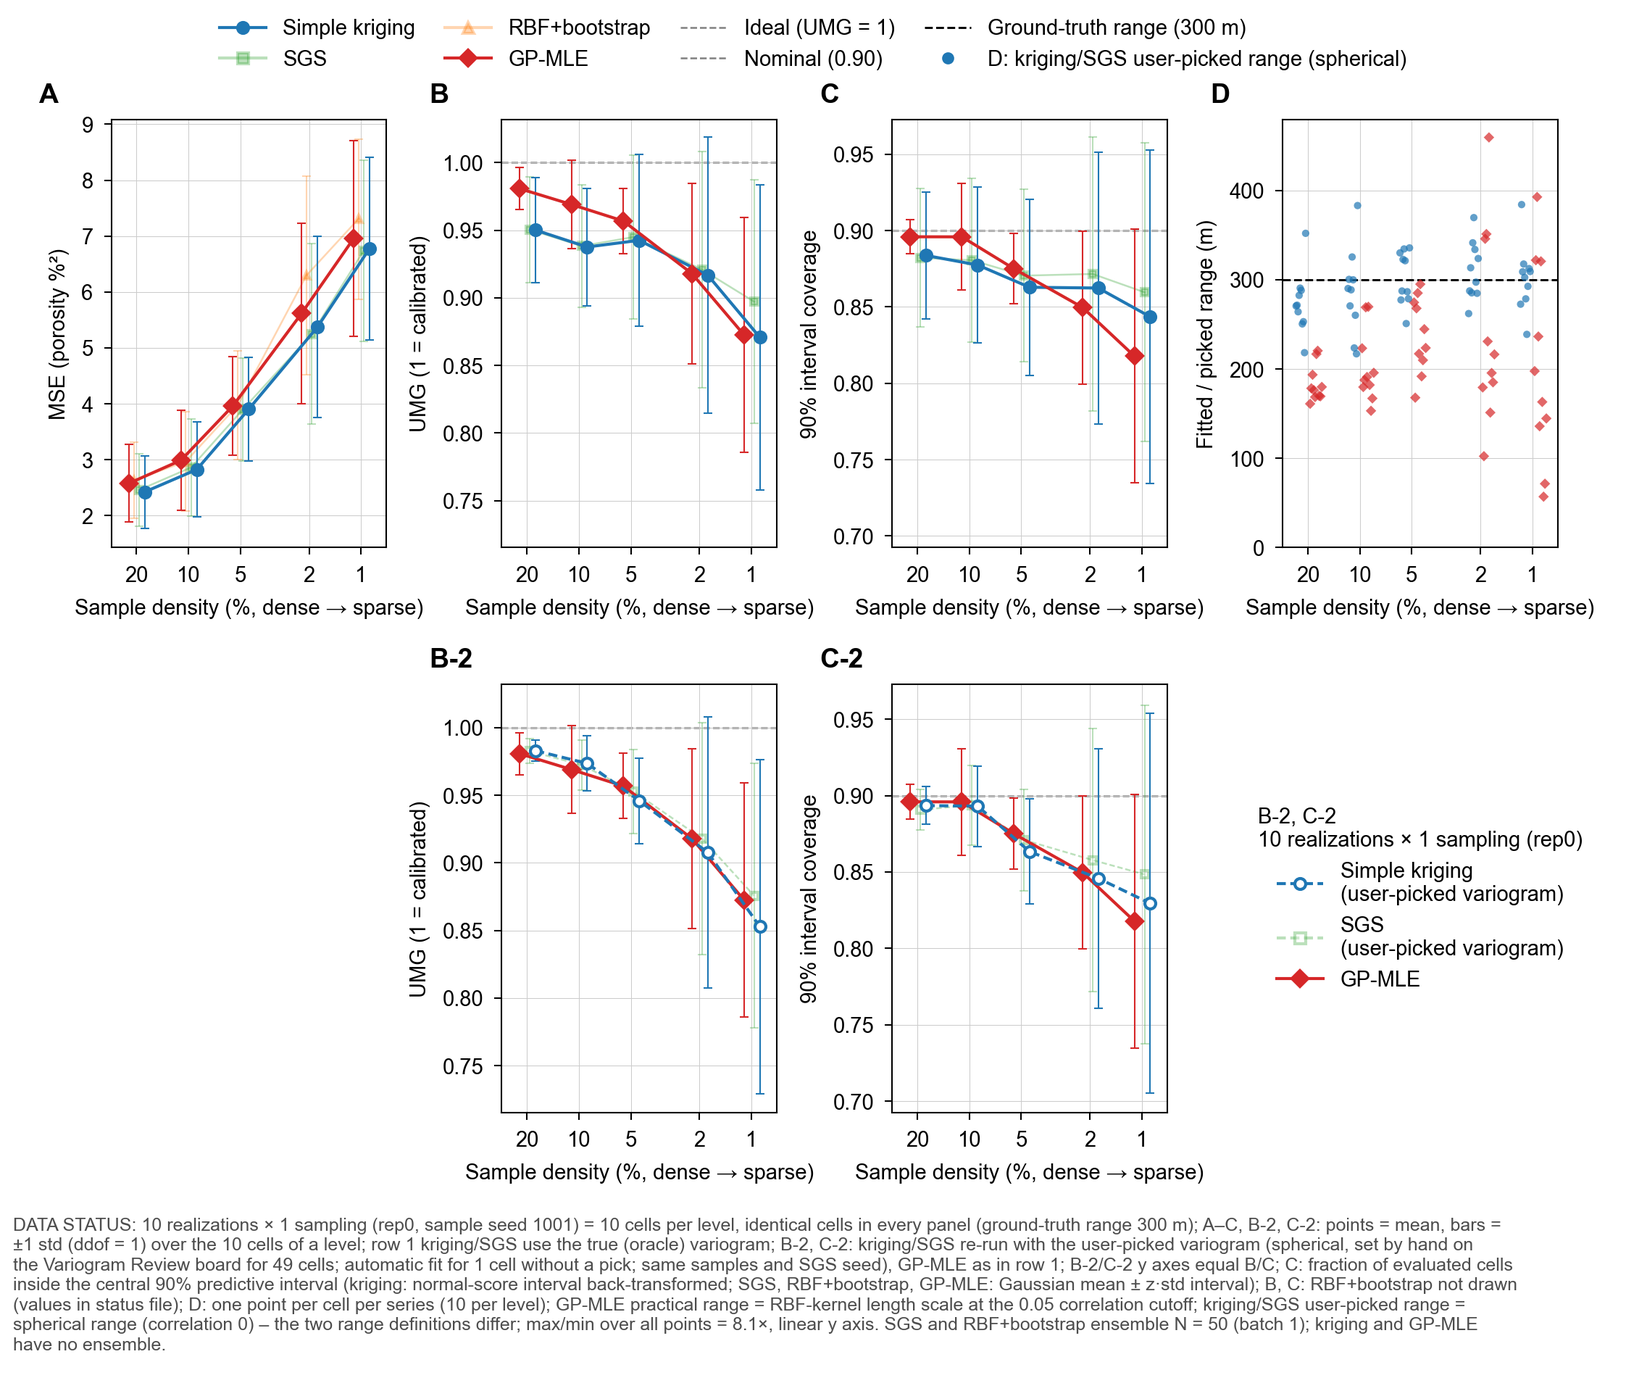
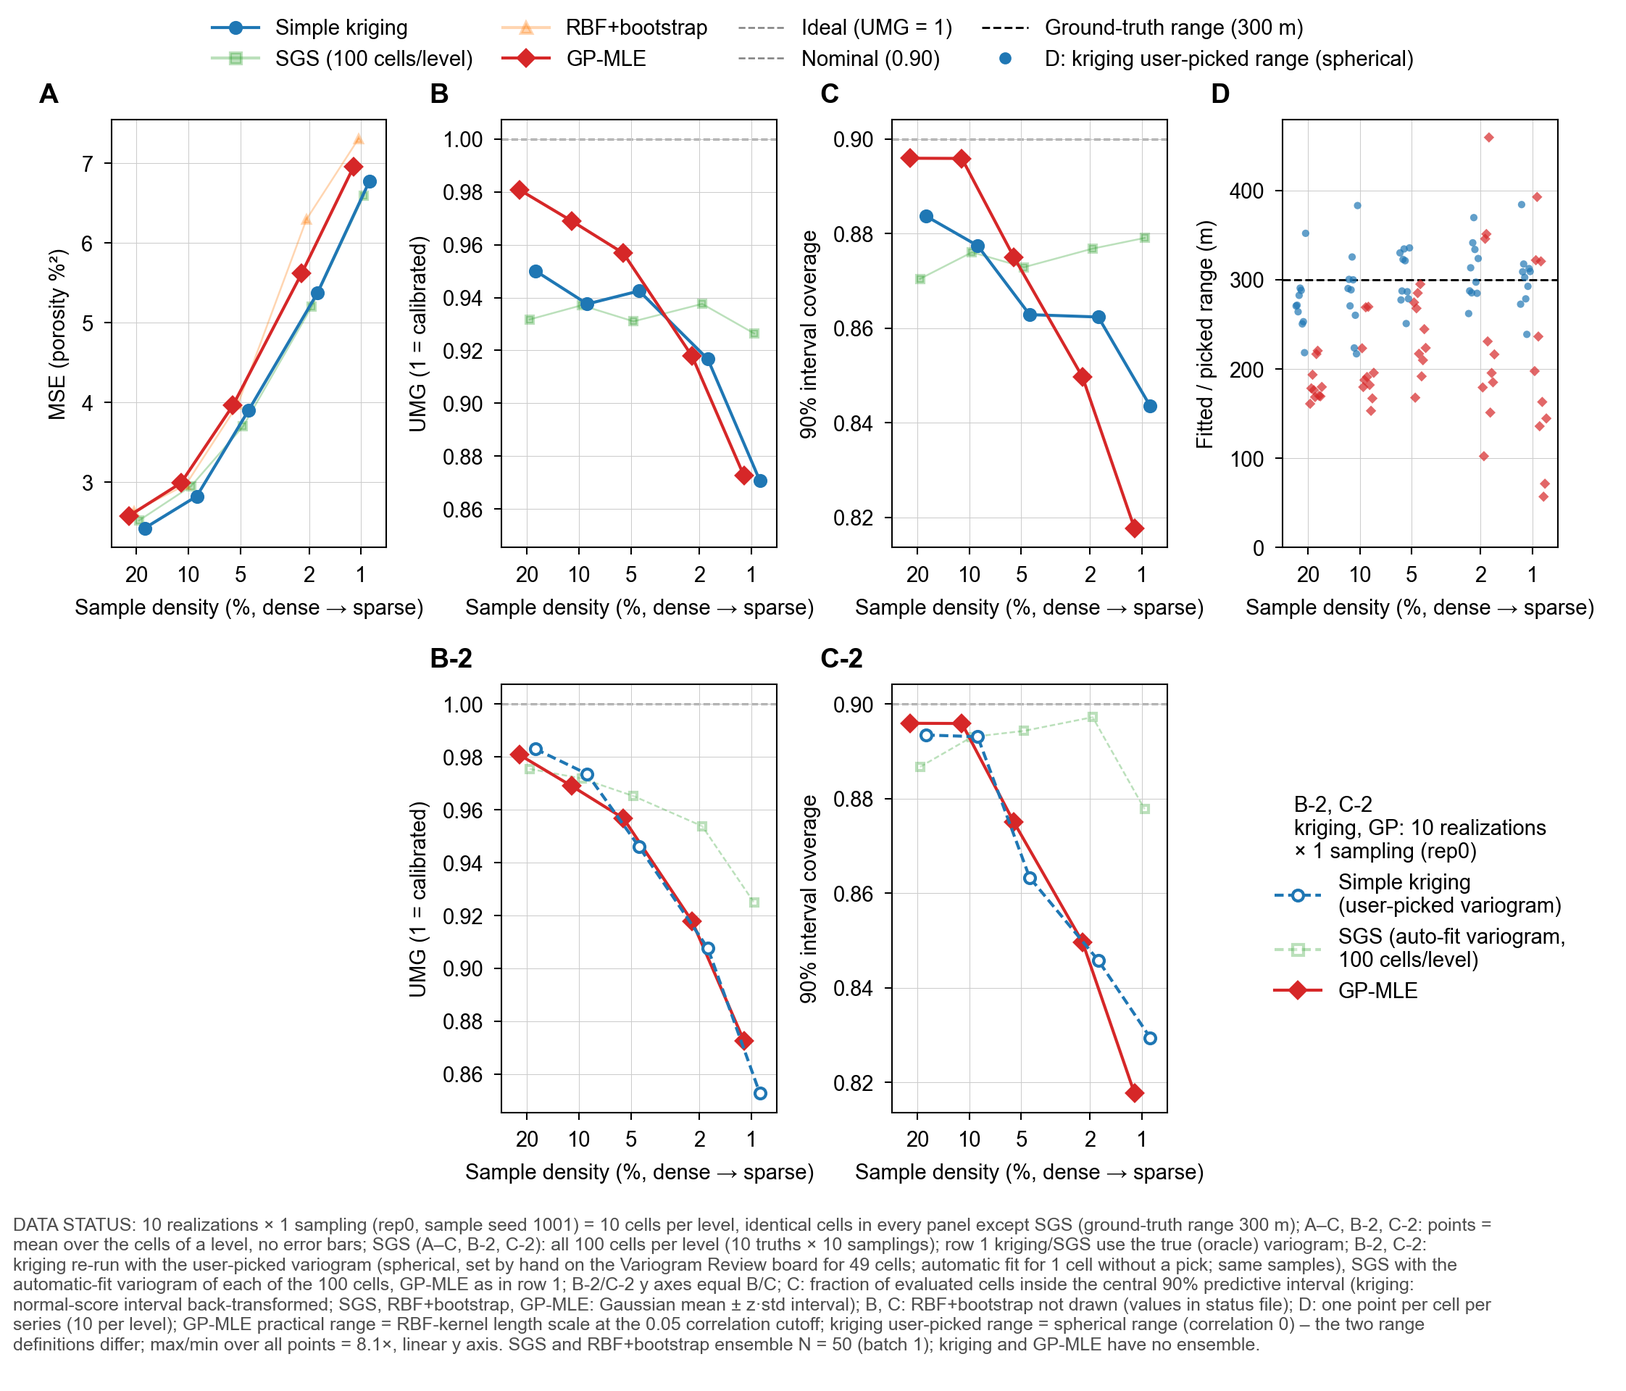
F3-2: drop error bars, draw SGS from all 100 cells per level
User request: no error bars in F3-2, and SGS from the existing 10x10 results
(row 1 oracle SGS, row 2 auto-fit-variogram SGS, since picks exist only for
rep0); kriging and GP-MLE stay on the 50 rep0 cells. F1-F7 outputs unchanged.

diff --git a/results/processed/paper_storyboard/make_storyboard_figures.py b/results/processed/paper_storyboard/make_storyboard_figures.py
@@ -183,6 +183,8 @@ PICK_CELLS = PICK_DIR / "evaluation_cells.csv"
 PICK_PROV = PICK_DIR / "evaluation_provenance.json"
 PICK_PICKS = PROCESSED / "variogram_inference" / "variogram_picks.csv"
 PICK_METHODS = ["kriging_picked", "sgs_picked"]
+# F3-2: SGS is drawn from all 10 truths x 10 samplings per level (user request 2026-11-18)
+F3_2_SGS_N_CELLS = 100
 PICK_SAMPLE_REP = "rep0"
 INF_BASE.update({"kriging_picked": "kriging", "sgs_picked": "sgs"})
 INF_LABELS.update({"kriging_picked": "Simple kriging (user-picked variogram)",
@@ -398,10 +400,11 @@ def _style_density_axis(ax, dens, xlabel=True):
         ax.set_xlabel(DENSITY_XLABEL)
 
 
-def _plot_density_metric(ax, summary, dens, metric, methods=METHODS, faded=()):
+def _plot_density_metric(ax, summary, dens, metric, methods=METHODS, faded=(), errorbars=True):
     """mean +- 1 std across replicates, methods offset in x so bars do not overlap.
     Inferred-variogram methods (INF_METHODS) take their oracle method's colour,
-    marker and x offset, drawn with a hollow marker and dashed line."""
+    marker and x offset, drawn with a hollow marker and dashed line.
+    errorbars=False draws the means only (F3-2, user request 2026-11-18)."""
     for method in METHODS + INF_METHODS + PICK_METHODS:
         if method not in methods:
             continue
@@ -413,7 +416,7 @@ def _plot_density_metric(ax, summary, dens, metric, methods=METHODS, faded=()):
         x = [dens["pct"][lvl] * (1.0 + off) for lvl in DENSITY_LEVELS]
         is_faded = method in faded
         ax.errorbar(
-            x, sub["mean"].values, yerr=sub["std"].values,
+            x, sub["mean"].values, yerr=sub["std"].values if errorbars else None,
             color=METHOD_COLORS[base], marker=METHOD_MARKERS[base],
             markersize=2.6 if is_faded else 3.6,
             linewidth=0.6 if is_faded else 1.0,
@@ -1255,9 +1258,25 @@ def figure_f3_2(mt):
     spread = float(max(gp["value"].max(), pc["vario_hmaj1"].max())
                    / min(gp["value"].min(), pc["vario_hmaj1"].min()))
     use_log = spread >= RATIO_LOG_THRESHOLD
-    faded = ("sgs", "rbf_bootstrap", "sgs_picked")
-    summ2 = pd.concat([summ[summ["method"] == "gp_mle"], r0["pick_summary"]], ignore_index=True)
-    row2_methods = PICK_METHODS + ["gp_mle"]
+    faded = ("sgs", "rbf_bootstrap", "sgs_picked", "sgs_inferred")
+    # SGS only: the full 100-cell results per level (10 truths x 10 samplings) instead of
+    # rep0 (user request 2026-11-18). Row 1: oracle SGS from multi_truth_axes; row 2:
+    # sgs_inferred (automatic-fit variogram) - no user picks exist for rep1-rep9.
+    ed = mt["exp"]["density"]
+    sgs100 = ed["summary"][ed["summary"]["method"] == "sgs"]
+    inf = _load_inferred_density(mt)
+    sgs100_inf = inf["summary"][inf["summary"]["method"] == "sgs_inferred"]
+    for name, df in (("oracle sgs", sgs100), ("sgs_inferred", sgs100_inf)):
+        if set(df["axis_level"]) != set(DENSITY_LEVELS) or set(df["n"]) != {F3_2_SGS_N_CELLS}:
+            raise ValueError(f"F3-2 {name}: expected {F3_2_SGS_N_CELLS} cells per density level.")
+    summ = pd.concat([summ[summ["method"] != "sgs"], sgs100[summ.columns.intersection(sgs100.columns)]],
+                     ignore_index=True)
+    summ2 = pd.concat([summ[summ["method"] == "gp_mle"],
+                       r0["pick_summary"][r0["pick_summary"]["method"] == "kriging_picked"],
+                       sgs100_inf], ignore_index=True)
+    row2_methods = ["kriging_picked", "sgs_inferred", "gp_mle"]
+    sgs_lbl = f"SGS ({F3_2_SGS_N_CELLS} cells/level)"
+    sgs_inf_lbl = f"SGS (auto-fit variogram,\n{F3_2_SGS_N_CELLS} cells/level)"
     n_src = pc["vario_source"].value_counts().to_dict()
     auto_cells = pc[pc["vario_source"] == "auto"]
     unconf = pc[pc["pick_confirmed"].astype(str) == "False"]
@@ -1266,16 +1285,18 @@ def figure_f3_2(mt):
     ax_scale = "log" if use_log else "linear"
 
     note = (
-        f"{rep_txt} (ground-truth range {dens['truth_range_m']:g} m); A–C, B-2, C-2: points = mean, bars = ±1 std "
-        f"(ddof = 1) over the {n_per} cells of a level; row 1 kriging/SGS use the true (oracle) variogram; "
-        f"B-2, C-2: kriging/SGS re-run with the user-picked variogram (spherical, set by hand on the Variogram "
+        f"{rep_txt} except SGS (ground-truth range {dens['truth_range_m']:g} m); A–C, B-2, C-2: points = mean "
+        f"over the cells of a level, no error bars; SGS (A–C, B-2, C-2): all {F3_2_SGS_N_CELLS} cells per level "
+        f"(10 truths × 10 samplings); row 1 kriging/SGS use the true (oracle) variogram; "
+        f"B-2, C-2: kriging re-run with the user-picked variogram (spherical, set by hand on the Variogram "
         f"Review board for {n_src.get('pick', 0)} cells; automatic fit for {n_src.get('auto', 0)} cell without a "
-        f"pick; same samples and SGS seed), GP-MLE as in row 1; B-2/C-2 y axes equal B/C; "
+        f"pick; same samples), SGS with the automatic-fit variogram of each of the {F3_2_SGS_N_CELLS} cells, "
+        f"GP-MLE as in row 1; B-2/C-2 y axes equal B/C; "
         f"C: fraction of evaluated cells inside the central {COV90_NOMINAL:.0%} predictive interval (kriging: "
         f"normal-score interval back-transformed; SGS, RBF+bootstrap, GP-MLE: Gaussian mean ± z·std interval); "
         f"B, C: RBF+bootstrap not drawn (values in status file); "
         f"D: one point per cell per series ({n_per} per level); GP-MLE practical range = RBF-kernel length "
-        f"scale at the 0.05 correlation cutoff; kriging/SGS user-picked range = spherical range (correlation 0) – "
+        f"scale at the 0.05 correlation cutoff; kriging user-picked range = spherical range (correlation 0) – "
         f"the two range definitions differ; max/min over all points = {spread:.1f}×, {ax_scale} y axis. "
         f"{_mt_ensemble_text(mt)}."
     )
@@ -1288,12 +1309,12 @@ def figure_f3_2(mt):
     ax_leg2 = fig.add_subplot(gs[1, 3])
     ax_leg2.axis("off")
 
-    _plot_density_metric(ax_a, summ, dens, "mse", faded=faded)
+    _plot_density_metric(ax_a, summ, dens, "mse", faded=faded, errorbars=False)
     bc_methods = [m for m in METHODS if m not in F3_BC_OMIT]
-    _plot_density_metric(ax_b, summ, dens, "umg", methods=bc_methods, faded=faded)
-    _plot_density_metric(ax_c, summ, dens, "coverage90", methods=bc_methods, faded=faded)
-    _plot_density_metric(ax_b2, summ2, dens, "umg", methods=row2_methods, faded=faded)
-    _plot_density_metric(ax_c2, summ2, dens, "coverage90", methods=row2_methods, faded=faded)
+    _plot_density_metric(ax_b, summ, dens, "umg", methods=bc_methods, faded=faded, errorbars=False)
+    _plot_density_metric(ax_c, summ, dens, "coverage90", methods=bc_methods, faded=faded, errorbars=False)
+    _plot_density_metric(ax_b2, summ2, dens, "umg", methods=row2_methods, faded=faded, errorbars=False)
+    _plot_density_metric(ax_c2, summ2, dens, "coverage90", methods=row2_methods, faded=faded, errorbars=False)
     for ax in (ax_b, ax_b2):
         ax.axhline(1.0, color="gray", linestyle="--", linewidth=0.6, zorder=1)
         ax.set_ylabel(UMG_LABEL)
@@ -1344,19 +1365,23 @@ def figure_f3_2(mt):
             (ax_b, summ, bc_methods, "umg", "B"), (ax_c, summ, bc_methods, "coverage90", "C"),
             (ax_b2, summ2, row2_methods, "umg", "B-2"), (ax_c2, summ2, row2_methods, "coverage90", "C-2")):
         r = s_[(s_["metric"] == metric) & (s_["method"].isin(ms))]
-        lo_, hi_ = float((r["mean"] - r["std"]).min()), float((r["mean"] + r["std"]).max())
+        lo_, hi_ = float(r["mean"].min()), float(r["mean"].max())
         yl = ax.get_ylim()
         if yl[0] > lo_ or yl[1] < hi_:
-            raise ValueError(f"panel {name} y range {yl} clips the mean +-1 std range [{lo_}, {hi_}].")
+            raise ValueError(f"panel {name} y range {yl} clips the means [{lo_}, {hi_}].")
 
-    handles = _method_handles(faded=faded) + [
+    row1_handles = _method_handles(faded=faded)
+    for h in row1_handles:
+        if h.get_label() == METHOD_LABELS["sgs"]:
+            h.set_label(sgs_lbl)
+    handles = row1_handles + [
         Line2D([0], [0], color="gray", linestyle="--", linewidth=0.6, label="Ideal (UMG = 1)"),
         Line2D([0], [0], color="gray", linestyle="--", linewidth=0.6,
                label=f"Nominal ({COV90_NOMINAL:.2f})"),
         Line2D([0], [0], color="black", linestyle="--", linewidth=0.7,
                label=f"Ground-truth range ({dens['truth_range_m']:g} m)"),
         Line2D([0], [0], color=F3_D_INF_COLOR, marker="o", linestyle="none", markersize=3.0,
-               label="D: kriging/SGS user-picked range (spherical)"),
+               label="D: kriging user-picked range (spherical)"),
     ]
     fig.legend(handles=handles, loc="upper center", ncol=4, bbox_to_anchor=(0.5, 1.0),
                columnspacing=1.4)
@@ -1364,8 +1389,10 @@ def figure_f3_2(mt):
     leg2_handles = _method_handles(methods=row2_methods, faded=faded)
     for h in leg2_handles:
         h.set_label(h.get_label().replace(" (user-picked", "\n(user-picked"))
+        if h.get_label() == INF_LABELS["sgs_inferred"]:
+            h.set_label(sgs_inf_lbl)
     ax_leg2.legend(handles=leg2_handles, loc="center",
-                   title=f"B-2, C-2\n{a['n_truth']} realizations × 1 sampling ({PICK_SAMPLE_REP})",
+                   title=f"B-2, C-2\nkriging, GP: {a['n_truth']} realizations\n× 1 sampling ({PICK_SAMPLE_REP})",
                    frameon=False)
 
     gp_level = gp.groupby("axis_level")["value"].describe(percentiles=[0.5]).loc[DENSITY_LEVELS]
@@ -1393,19 +1420,21 @@ def figure_f3_2(mt):
         ]),
         panels=[
             ("A", "REAL DATA - MSE vs density; kriging and GP-MLE at full strength, SGS and RBF+bootstrap drawn "
-                  f"faded (alpha 0.32); mean +-1 std over the {n_per} rep0 cells per level"),
+                  f"faded (alpha 0.32); level means, no error bars (user request 2026-11-18); {n_per} rep0 cells "
+                  f"per level except SGS = all {F3_2_SGS_N_CELLS} cells per level"),
             ("B", "REAL DATA - UMG vs density, same emphasis and statistics; RBF+bootstrap NOT drawn "
                   "(as F3; its values are listed below)"),
             ("C", "REAL DATA - 90% interval coverage vs density, same emphasis and statistics; RBF+bootstrap "
                   f"NOT drawn (as B); dashed gray line = nominal {COV90_NOMINAL:.2f}"),
             ("D", f"REAL DATA - range, one point per cell per series ({n_per} per level = {a['n_truth']} truths x "
                   "1 sampling): GP-MLE practical range (red diamonds, shifted left) and the spherical range of "
-                  "the user-picked variogram used by kriging/SGS in B-2/C-2 (blue circles, shifted right; one "
-                  "series - kriging and SGS use the same variogram); dashed line = ground-truth range "
+                  "the user-picked variogram used by kriging in B-2/C-2 (blue circles, shifted right); "
+                  "dashed line = ground-truth range "
                   f"{dens['truth_range_m']:g} m"),
-            ("B-2", "REAL DATA - UMG vs density: kriging / SGS re-run with the user-picked variogram (hollow "
-                    "markers, dashed line; SGS faded) + GP-MLE (identical to B); y axis equal to B; "
-                    f"mean +-1 std over {n_per} cells per level (user request 2026-11-18)"),
+            ("B-2", "REAL DATA - UMG vs density: kriging re-run with the user-picked variogram (rep0, "
+                    f"{n_per} cells per level), SGS with the automatic-fit variogram (sgs_inferred, all "
+                    f"{F3_2_SGS_N_CELLS} cells per level; faded) - both hollow markers, dashed line - + GP-MLE "
+                    "(identical to B); y axis equal to B; level means, no error bars (user request 2026-11-18)"),
             ("C-2", "REAL DATA - 90% interval coverage vs density, same series and statistics as B-2; y axis "
                     "equal to C"),
         ],
@@ -1415,8 +1444,12 @@ def figure_f3_2(mt):
             f"{a['n_truth']} truth seeds {a['truth_seeds']} x {len(DENSITY_LEVELS)} levels = "
             f"{n_per * len(DENSITY_LEVELS)} cells; identical (level, truth_seed, sample_seed) set asserted across "
             "the oracle metrics, GP-MLE ranges and the user-picked-variogram evaluation.",
-            f"error bars: mean +- 1 std (ddof=1) over the {n_per} truth realizations of a level (one sampling "
-            "each) - between-truth variation only.",
+            "no error bars (user request 2026-11-18); points = level means; per-level std are in the value "
+            "tables below.",
+            f"SGS exception (user request 2026-11-18): SGS in A-C is the oracle SGS over all {F3_2_SGS_N_CELLS} "
+            f"cells per level ({_rel(MTA_SUMMARY)}, method sgs), and SGS in B-2/C-2 is sgs_inferred "
+            f"(automatic-fit variogram) over all {F3_2_SGS_N_CELLS} cells ({_rel(INF_SUMMARY)}); sgs_picked "
+            "(rep0) is not drawn (values listed below).",
             "user-picked variogram: range_m / nugget of variogram_picks.csv where a row exists, else the automatic "
             f"fit (fit_range_m / fit_nugget of fitted_variograms.csv). Cells with vario_source = pick: "
             f"{n_src.get('pick', 0)}; auto fallback: {n_src.get('auto', 0)} (" + ", ".join(
@@ -1433,7 +1466,7 @@ def figure_f3_2(mt):
             f"panel C coverage90 = accuracy-plot fraction_in at exactly p = {COV90_NOMINAL:.2f} (as F3).",
             "panel C SGS, RBF+bootstrap and GP-MLE: Gaussian mean +- z*std interval; kriging: normal-score "
             "interval back-transformed (as F3).",
-            "B/C/B-2/C-2 y axes autoscaled to include every mean +-1 std bar (checked at run time; no clipping).",
+            "B/C/B-2/C-2 y axes autoscaled to include every plotted mean (checked at run time; no clipping).",
             f"panel D y-axis rule: log if max/min >= {RATIO_LOG_THRESHOLD:g}x; observed {spread:.2f}x -> "
             f"{ax_scale}; points spread horizontally by a fixed (non-random) +-{F3_D_SPLIT_SPREAD:.0%} pattern "
             f"ordered by truth_seed; marker alpha {F3_2_D_ALPHA:g}.",
@@ -1453,6 +1486,8 @@ def figure_f3_2(mt):
             "plotted values (level mean+-std), MSE: " + _density_table(summ, "mse"),
             "UMG: " + _density_table(summ, "umg"),
             "coverage90: " + _density_table(summ, "coverage90"),
+            "sgs_inferred (B-2/C-2 SGS, 100 cells) UMG: " + _density_table(sgs100_inf, "umg", ["sgs_inferred"]),
+            "sgs_inferred coverage90: " + _density_table(sgs100_inf, "coverage90", ["sgs_inferred"]),
             "user-picked MSE (not drawn): " + _density_table(r0["pick_summary"], "mse", PICK_METHODS),
             "user-picked UMG: " + _density_table(r0["pick_summary"], "umg", PICK_METHODS),
             "user-picked coverage90: " + _density_table(r0["pick_summary"], "coverage90", PICK_METHODS),

diff --git a/results/processed/paper_storyboard/build_storyboard_artifact.py b/results/processed/paper_storyboard/build_storyboard_artifact.py
@@ -43,9 +43,9 @@ FIGS = {
         stem="F3-2_density_rep0_picked_variogram", st=REAL,
         title="밀도별 GP와 kriging, realization 10개 × 샘플링 1개, 직접 고른 variogram",
         body=[
-            "F3과 배치가 같습니다. 모든 패널이 같은 50셀(밀도 5개 × ground truth 10개 × 샘플셋 rep0 1개, sample seed 1001)만 씁니다. 점은 레벨 내 10셀의 평균, 막대는 ±1 표준편차입니다(SGS, RBF+bootstrap은 N = 50).",
-            "1행의 kriging과 SGS는 실제(oracle) variogram을 씁니다. B-2와 C-2는 kriging과 SGS를 Variogram Review 보드에서 셀마다 직접 고른 spherical variogram으로 다시 돌린 결과입니다(49셀은 직접 고른 값, 고르지 않은 1셀(2 %, truth 101)은 자동 적합값; 같은 샘플, 같은 SGS seed). 보드에는 각 셀의 정답 variogram 곡선이 함께 표시되어 있었습니다. GP-MLE는 1행과 같은 값이고, y축은 각각 B, C와 같습니다.",
-            "D는 셀마다 range를 점 하나로 찍은 것입니다(레벨당 10개, 선형 축). 빨간 점(왼쪽)은 GP-MLE practical range(상관 0.05 기준), 파란 점(오른쪽)은 kriging/SGS가 쓴 직접 고른 spherical range(상관 0 기준)입니다. 점선은 ground-truth range 300 m입니다.",
+            "F3과 배치가 같습니다. SGS를 뺀 모든 계열은 같은 50셀(밀도 5개 × ground truth 10개 × 샘플셋 rep0 1개, sample seed 1001)만 씁니다. SGS는 기존 결과 전체(레벨당 ground truth 10개 × 샘플셋 10개 = 100셀)입니다. 점은 레벨 평균이고, error bar는 그리지 않았습니다(SGS, RBF+bootstrap은 N = 50).",
+            "1행의 kriging과 SGS는 실제(oracle) variogram을 씁니다. B-2와 C-2의 kriging은 Variogram Review 보드에서 셀마다 직접 고른 spherical variogram으로 다시 돌린 결과입니다(49셀은 직접 고른 값, 고르지 않은 1셀(2 %, truth 101)은 자동 적합값; 같은 샘플). 보드에는 각 셀의 정답 variogram 곡선이 함께 표시되어 있었습니다. B-2와 C-2의 SGS는 100셀 각각에서 자동 적합한 variogram으로 돌린 기존 결과입니다(rep1~rep9에는 직접 고른 값이 없음). GP-MLE는 1행과 같은 값이고, y축은 각각 B, C와 같습니다.",
+            "D는 셀마다 range를 점 하나로 찍은 것입니다(레벨당 10개, 선형 축). 빨간 점(왼쪽)은 GP-MLE practical range(상관 0.05 기준), 파란 점(오른쪽)은 kriging이 쓴 직접 고른 spherical range(상관 0 기준)입니다. 점선은 ground-truth range 300 m입니다.",
         ]),
     "F4": dict(
         stem="F4_gp_fitted_vs_truth_hyperparameters", st=REAL,
@@ -106,10 +106,10 @@ CLAIMS = {
         "D: inferred spherical range의 중앙값은 레벨마다 293~323 m이고, 300 m를 넘는 셀은 100개 중 45~55개입니다. 범위는 20 %에서 181~414 m, 1 %에서 75~1000 m이며, 1 %에서 32개가 적합 범위 경계에 걸렸습니다.",
     ],
     "F3-2": [
-        "B: 10×1 셀에서 UMG는 밀도 20 %에서 1 %로 갈 때 GP-MLE 0.981 → 0.873, kriging(oracle) 0.950 → 0.871, SGS(oracle) 0.950 → 0.897입니다.",
-        "C: 90% coverage는 GP-MLE 0.896 → 0.818, kriging(oracle) 0.884 → 0.844, SGS(oracle) 0.882 → 0.860입니다. GP-MLE의 셀 간 표준편차는 20 %에서 0.011, 1 %에서 0.083입니다(kriging 0.042, 0.11).",
-        "B-2: 직접 고른 variogram을 쓴 kriging의 UMG는 20 %에서 0.983, 1 %에서 0.853입니다. SGS는 0.983, 0.876입니다.",
-        "C-2: 직접 고른 variogram을 쓴 kriging의 90% coverage는 20 %에서 0.893, 1 %에서 0.829입니다. SGS는 0.891, 0.848입니다.",
+        "B: UMG는 밀도 20 %에서 1 %로 갈 때 GP-MLE 0.981 → 0.873, kriging(oracle) 0.950 → 0.871입니다(10×1 셀). SGS(oracle, 100셀)는 0.932 → 0.926입니다.",
+        "C: 90% coverage는 GP-MLE 0.896 → 0.818, kriging(oracle) 0.884 → 0.844입니다(10×1 셀). SGS(oracle, 100셀)는 0.870 → 0.879입니다. GP-MLE의 셀 간 표준편차는 20 %에서 0.011, 1 %에서 0.083입니다(kriging 0.042, 0.11).",
+        "B-2: 직접 고른 variogram을 쓴 kriging의 UMG는 20 %에서 0.983, 1 %에서 0.853입니다. 자동 적합 variogram을 쓴 SGS(100셀)는 0.975, 0.925입니다.",
+        "C-2: 직접 고른 variogram을 쓴 kriging의 90% coverage는 20 %에서 0.893, 1 %에서 0.829입니다. 자동 적합 variogram을 쓴 SGS(100셀)는 0.887, 0.878입니다.",
         "MSE(B-2/C-2 쪽은 그림에 없음): 직접 고른 variogram의 kriging은 20 %에서 2.44, 1 %에서 6.86입니다(oracle 2.42, 6.77).",
         "D: GP-MLE practical range의 중앙값은 레벨마다 177~234 m이고, 300 m를 넘는 셀은 20/10/5 %에서 0개, 2 %와 1 %에서 각각 3개입니다(10개 중). 1 %에서 범위는 57~393 m입니다. 직접 고른 range의 중앙값은 271~306 m입니다.",
     ],
